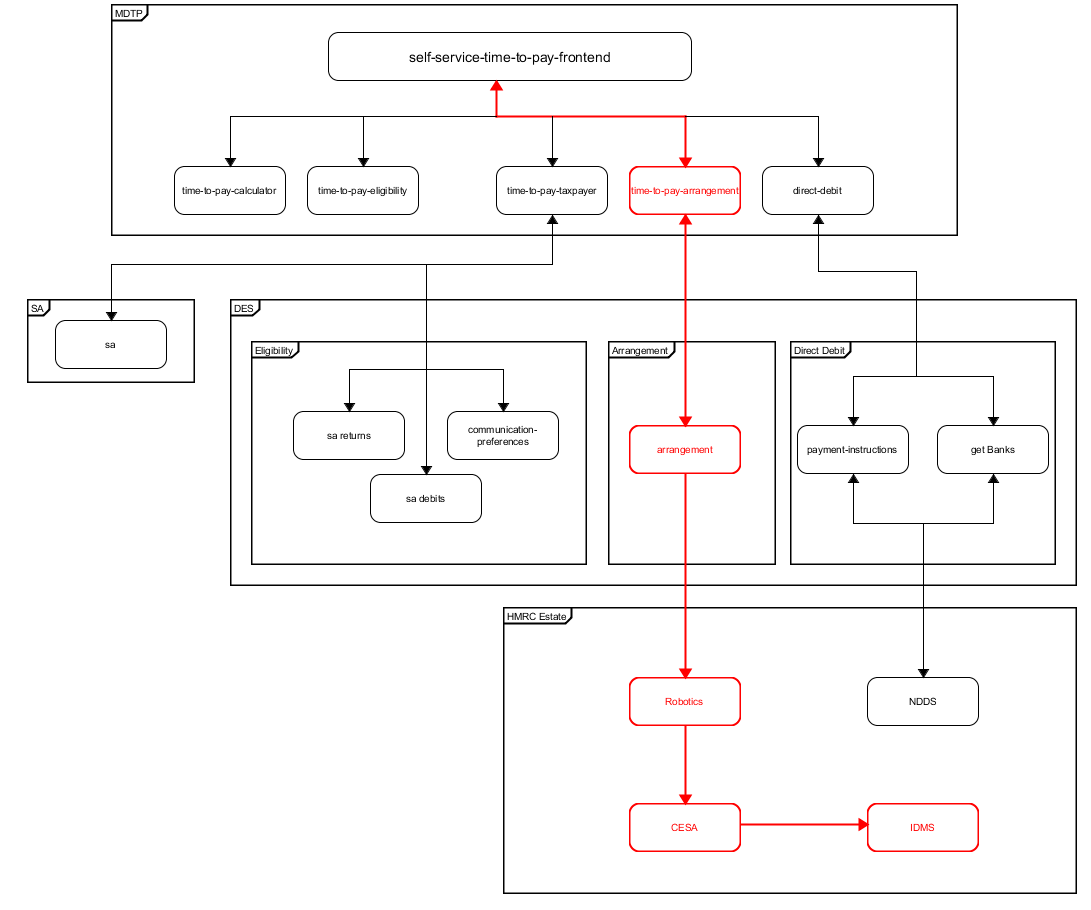
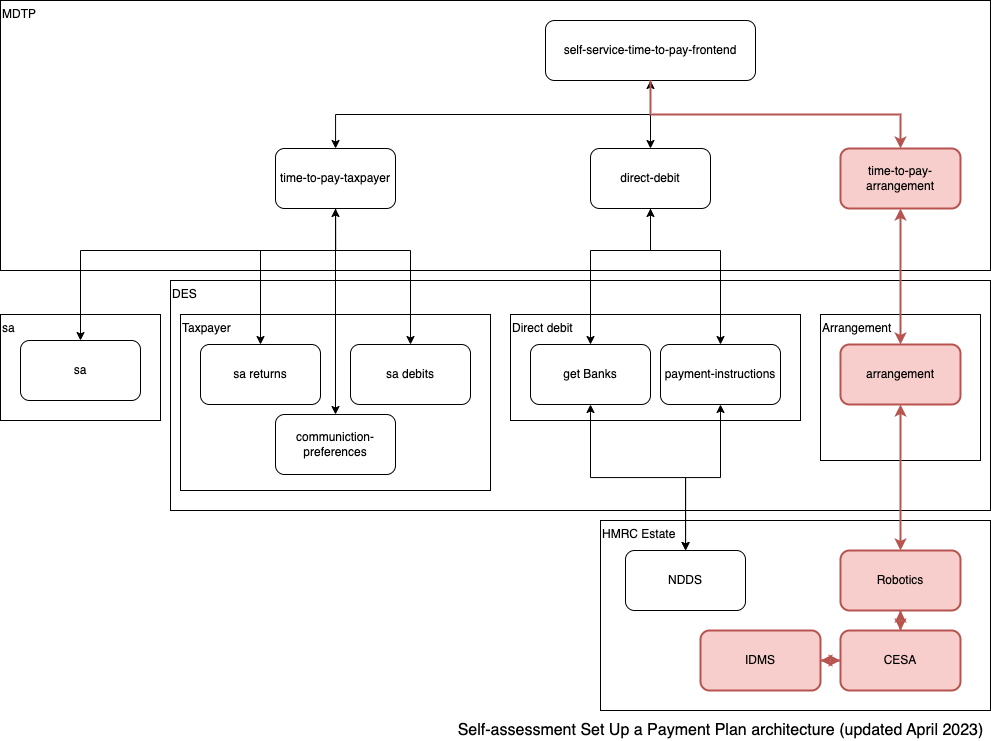
[AM][OPS-10152] Update architecture diagram and add retry diagram to README (#71)

Changed region(s): [[0.0, 0.0, 1.0, 0.9933], [0.8174, 0.3104, 0.8476, 0.3414], [0.0, 0.0, 0.0303, 0.031]]

diff --git a/README.md b/README.md
@@ -3,13 +3,27 @@
 [![Build Status](https://travis-ci.org/hmrc/time-to-pay-arrangement.svg)](https://travis-ci.org/hmrc/time-to-pay-arrangement) [ ![Download](https://api.bintray.com/packages/hmrc/releases/time-to-pay-arrangement/images/download.svg) ](https://bintray.com/hmrc/releases/time-to-pay-arrangement/_latestVersion)
 
 ### About
-The Arrangement service is used in the SSTTP project for Pay What You Owe In Instalments. It takes a POST request and builds a DES submission request using the provided data.
+The Arrangement service is used in the Self-service Setup a Time To Pay payment plan (SSSTTP) project for Pay What You Owe In Instalments for self-assessment tax liabilities.
+
+It takes a POST request and builds a DES submission request using the provided data.
+
 Before sending to DES the arrangement is saved to a local mongo database and provides a GET request in the response header that can be used to retrieve the data.
+
+A re-try mechanism is implemented so that if DES responds with a server error, the arrangement will be resent repeatedly for up to 48 hours until it is accepted.
+
 Below is a diagram showing where the arrangement service fits into the SSTTP project.
 
 <a href="https://github.com/hmrc/time-to-pay-arrangement">
      <p align="center">
-       <img src="https://raw.githubusercontent.com/hmrc/time-to-pay-arrangement/master/public/arrangement.png" alt="ArrangementOverview">
+       <img src="public/arrangement.png" alt="ArrangementOverview">
+     </p>
+ </a>
+
+This is a diagram of the re-try mechanism
+
+<a href="https://github.com/hmrc/time-to-pay-arrangement">
+     <p align="center">
+       <img src="public/retry.png" alt="RetryMechanismOverview">
      </p>
  </a>
 
